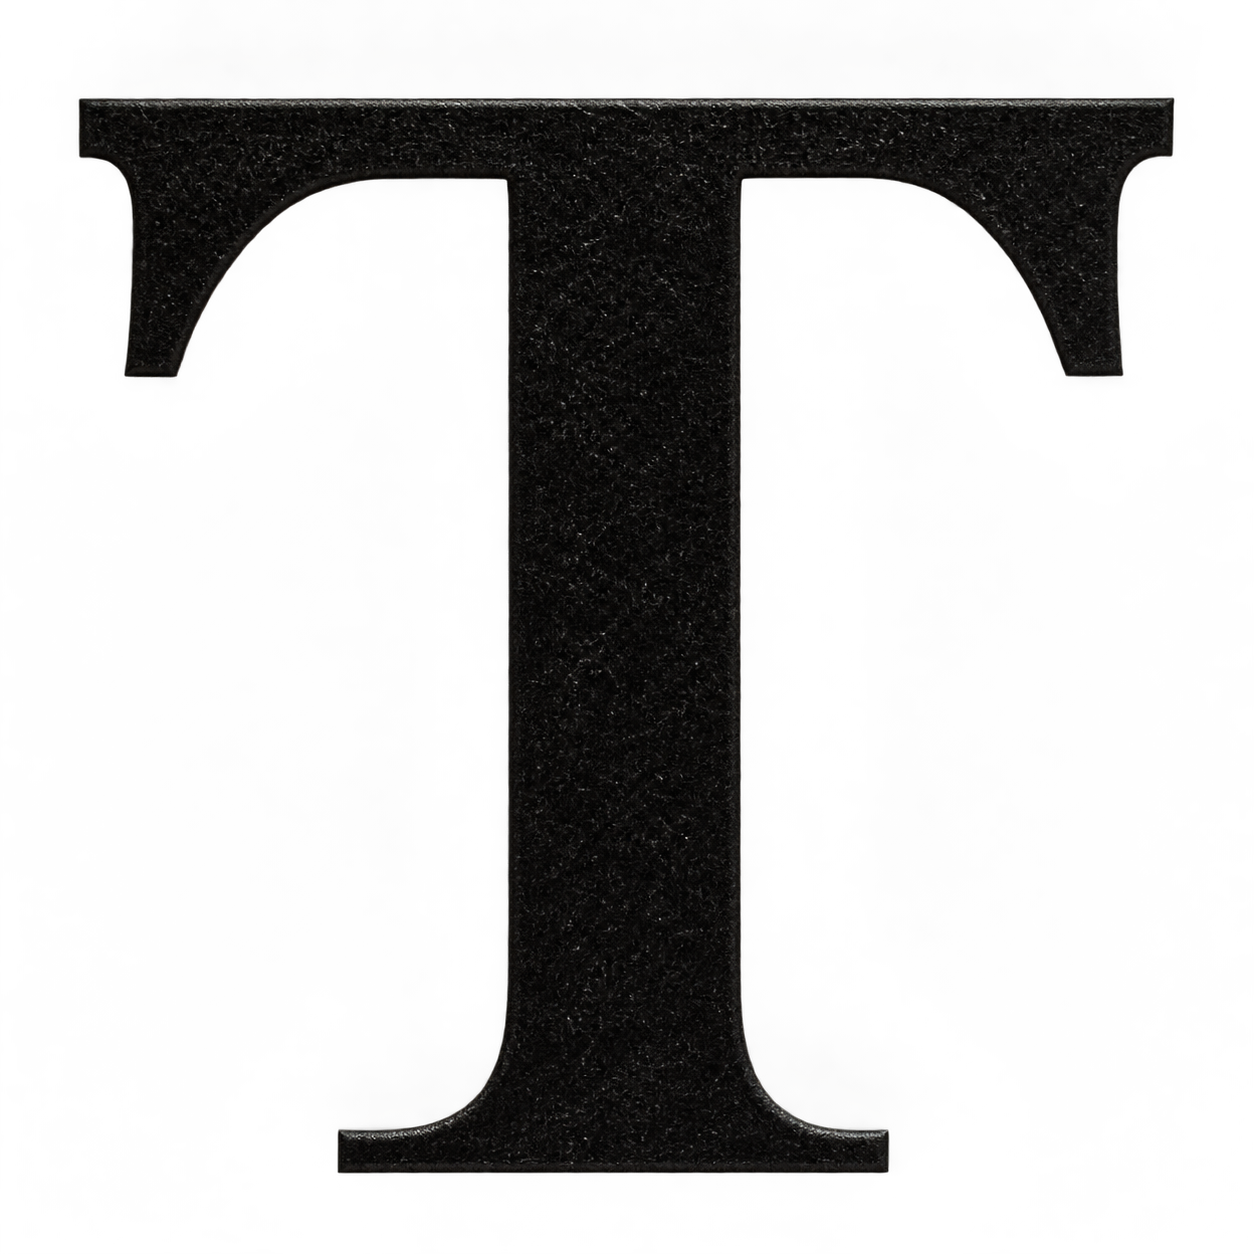
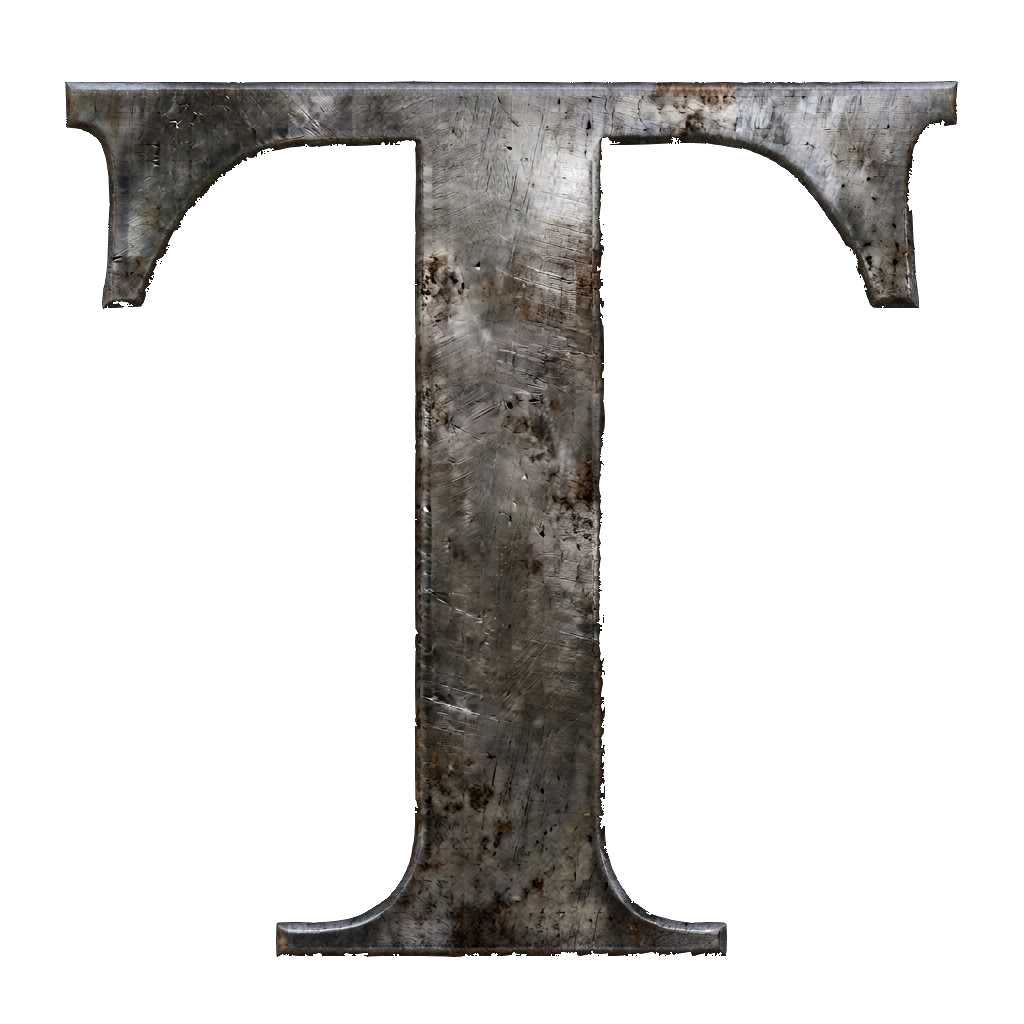
809: keep-alive status in Krimble log; metal T and Line photos [skip ci]
Claude-Session: https://claude.ai/code/session_01SJtkDcFnNYFPbsfPPV9jyP

Changed region(s): [[0.0625, 0.0625, 0.9375, 0.9375]]

diff --git a/packaging/android/apk/src/org/krimble/android/MainActivity.java b/packaging/android/apk/src/org/krimble/android/MainActivity.java
@@ -382,6 +382,7 @@ public class MainActivity extends QtActivity {
             if (Build.VERSION.SDK_INT >= Build.VERSION_CODES.O) startForegroundService(keepAlive); else startService(keepAlive);
         } catch (Exception e) {
             Log.w(TAG, "KeepAliveService not started: " + e);
+            KeepAliveService.status = "NOT STARTED (refused by Android): " + e;
         }
     }
 
@@ -421,10 +422,33 @@ public class MainActivity extends QtActivity {
         return sb.toString();
     }
 
+    // whether the keep-alive service is running now, and what happened when it was asked to start
+    private String krimbleKeepAliveDiag() {
+        String running = "unknown";
+        try {
+            ActivityManager am = getSystemService(ActivityManager.class);
+            running = "no";
+            for (ActivityManager.RunningServiceInfo info : am.getRunningServices(50)) {
+                if (info.service.getClassName().equals(KeepAliveService.class.getName())) {
+                    running = info.foreground ? "yes, in the foreground" : "yes, but not in the foreground";
+                }
+            }
+        } catch (Exception e) {
+            running = "unknown (" + e + ")";
+        }
+        boolean notificationsAllowed = true;
+        try {
+            notificationsAllowed = getSystemService(android.app.NotificationManager.class).areNotificationsEnabled();
+        } catch (Exception e) {
+        }
+        return "Keep-alive service: running now: " + running + "; last start: " + KeepAliveService.status
+                + "; notifications allowed for Krimble: " + (notificationsAllowed ? "yes" : "no (the \"Krimble is open\" notice is hidden)");
+    }
+
     public String getLastDestroyRecord() {
         try {
             SharedPreferences p = getSharedPreferences(DIAG_PREFS, MODE_PRIVATE);
-            return p.getString("previousRun", "") + "\n\nMemory of the previous run, newest last (fg = in front, bg = in the background):\n" + p.getString("prevMemTrail", "(none)")
+            return krimbleKeepAliveDiag() + "\n\n" + p.getString("previousRun", "") + "\n\nMemory of the previous run, newest last (fg = in front, bg = in the background):\n" + p.getString("prevMemTrail", "(none)")
                     + "\n\n" + krimbleDisplayDiag();
         } catch (Exception e) {
             return "";

diff --git a/packaging/android/apk/src/org/krimble/android/KeepAliveService.java b/packaging/android/apk/src/org/krimble/android/KeepAliveService.java
@@ -26,6 +26,9 @@ public class KeepAliveService extends Service {
     private static final String CHANNEL_ID = "org.krimble.android.open";
     private static final int NOTIFICATION_ID = 7;
 
+    // what happened when it was last asked to start (shown in Help > Show Krimble Log...)
+    static volatile String status = "never asked to start in this run";
+
     @Override
     public void onCreate() {
         super.onCreate();
@@ -59,8 +62,10 @@ public class KeepAliveService extends Service {
                 startForeground(NOTIFICATION_ID, notification());
             }
             Log.i(TAG, "Krimble kept in the foreground");
+            status = "running since " + new java.text.SimpleDateFormat("HH:mm:ss", java.util.Locale.US).format(new java.util.Date());
         } catch (Exception e) {
             Log.w(TAG, "Could not keep Krimble in the foreground: " + e);
+            status = "FAILED to start: " + e;
             stopSelf();
         }
         return START_NOT_STICKY;

diff --git a/KRIMBLE_CHANGES.md b/KRIMBLE_CHANGES.md
@@ -7917,3 +7917,10 @@ Built as 71.
 - "The copy button in the show Krimble log window doesn't have the new aqua theme. It seems like it was applied randomly.": every push button
   (Copy, OK, Cancel and the rest) is drawn in Aqua, a darker Aqua while pressed; disabled buttons stay gray. KrimbleVisualStyle.h,
   KrimbleVisualStylePainted.h.
+
+## 809 — Keep-alive service status in the Krimble log; metal T and Line photos (2026-11-21, not built)
+- "I don't think the service is starting.": Help > Show Krimble Log... now shows a first line "Keep-alive service: running now: yes/no; last start:
+  running since HH:MM:SS / FAILED to start: (reason) / NOT STARTED (refused by Android): (reason); notifications allowed for Krimble: yes/no".
+  The "Krimble is open" notice is hidden when Krimble may not show notifications (Android 13 and later ask for that separately), so a missing
+  notice alone does not say the service is off. MainActivity.java (krimbleKeepAliveDiag), KeepAliveService.java (status).
+- Photorealistic set: his metal T (transparent, 16:06) and metal line (15:37) replace the black T and black line, as delivered, full size.

diff --git a/KRIMBLE_CONVERSATION_LOG.md b/KRIMBLE_CONVERSATION_LOG.md
@@ -291,3 +291,4 @@ What was lost: the screenshots George sent during the day were not saved anywher
 - **15:45:** "Remember to keep all my bug lists in a file. They need to be added to their respective releases." (KRIMBLE_BUG_LISTS.md; 1.0.73 Known issues filled in)
 - **15:49:** "Try to edit 1.0.73-beta" (refused: releases cannot be edited from this session)
 - **16:00:** (Krimble log attached) "The copy button in the show Krimble log window doesn't have the new aqua theme. It seems like it was applied randomly."
+- **16:06:** (image: transparent metal T) "I don't think the service is starting. I don't know why this version of the T was not in my pic list, but here it is." (T and the metal line now in the photo set; keep-alive status added to the log)

diff --git a/docs/krimble-icon-sets/photorealistic/README.md b/docs/krimble-icon-sets/photorealistic/README.md
@@ -57,8 +57,8 @@ toolbox (08_01 Undo, 08_02 Quick Mask, 08_03 Screen Mode). `09_xx` = future tool
 
 | File | Tool |
 |---|---|
-| 04_05_text.png | 20. Text |
-| 05_03_line.png | 23. Line |
+| 04_05_text.png | 20. Text (metal T, received 16:06; replaces the black T) |
+| 05_03_line.png | 23. Line (metal rod with ball ends, received 15:37; replaces the black line) |
 | 08_01_undo.png | 33. Undo (on white; cut out for the app copy) |
 
 The app copies keep George's own transparency: no aura or glow is added ("Just leave my alpha channel transparency alone!!"). They are George's files at full resolution, unchanged ("And leave them at FULL RESOLUTION. NO SCALING DOWN"). Undo and Edit Path Nodes were replaced at 12:55 with George's own transparent versions.
